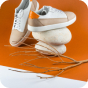
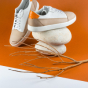
changed pictures + functions to slider component

diff --git a/src/components/main/Slider.jsx b/src/components/main/Slider.jsx
@@ -2,22 +2,46 @@ import { useState } from "react"
 
 const Slider = () => {
 
-  const slides = [
-    {public: '/images/Shoes2.jpg'},
-    {public: '/images/Shoes3.jpg'},
-    {public: '/images/Shoes4.jpg'},
-    {public: '/images/Shoes5.jpg'},
+  const [activeSlideIndex, setActiveSlideIndex] = useState(0)
+  const [activeLargeSlideIndex, setActiveLargeSlideIndex] = useState(0)
+
+  const handleSlideClick = (index) => {
+    setActiveSlideIndex(index)
+    setActiveLargeSlideIndex(index)
+  }
+
+  const smallSlides = [
+    {src: '/images/Shoes1.jpg'},
+    {src: '/images/Shoes2.jpg'},
+    {src: '/images/Shoes3.jpg'},
+    {src: '/images/Shoes4.jpg'}, 
+  ]
+
+  const largeSlides = [
+    {src: '/images/Shoes1large.jpg'},
+    {src: '/images/Shoes2large.jpg'},
+    {src: '/images/Shoes3large.jpg'},
+    {src: '/images/Shoes4large.jpg'}, 
   ]
 
   return (
     <div>
         <div className="flex flex-col items-center mt-24">
-            <img src="/images/Shoes1.jpg" alt="Picture of shoes" />
+            <img
+              src={largeSlides[activeLargeSlideIndex].src}
+              className="rounded-[15px]"
+              alt="Picture of shoes" />
             <div className="flex">
-                <img className="m-4 rounded-[15px] hover:cursor-pointer hover:opacity-50" src="/images/Shoes5.jpg" alt="Picture of shoes" onClick={() => console.log("clicked")}/>
-                <img className="m-4 rounded-[15px] hover:cursor-pointer hover:opacity-50" src="/images/Shoes2.jpg" alt="Picture of shoes" onClick={() => console.log("clicked")}/>
-                <img className="m-4 rounded-[15px] hover:cursor-pointer hover:opacity-50" src="/images/Shoes3.jpg" alt="Picture of shoes" onClick={() => console.log("clicked")}/>
-                <img className="m-4 rounded-[15px] hover:cursor-pointer hover:opacity-50" src="/images/Shoes4.jpg" alt="Picture of shoes" onClick={() => console.log("clicked")}/>
+                {smallSlides.map((slide, index) => (
+                  <img
+                    key={index}
+                    className={`m-4 rounded-[15px] hover:cursor-pointer hover:opacity-50 ${
+                      activeSlideIndex === index && "opacity-50 border-2 border-orange"}`}
+                    src={slide.src}
+                    alt="Picture of shoes"
+                    onClick={() => handleSlideClick(index)}
+                  />
+                ))}
             </div>
         </div>
     </div>

diff --git a/src/components/header/Cart.jsx b/src/components/header/Cart.jsx
@@ -1,8 +1,12 @@
 
 
 const Cart = () => {
+
+
+
   return (
-    <div className="mr-8 p-6 cursor-pointer">
+    <div className="mr-8 cursor-pointer flex relative z-0">
+        <div className="absolute z-10 top-0 right-0 flex justify-center items-center px-2 rounded-xl text-xs bg-orange text-white">3</div>
         <svg width="22" height="20" viewBox="0 0 22 20" fill="none" xmlns="http://www.w3.org/2000/svg">
             <path fillRule="evenodd" clipRule="evenodd" d="M3.86313 3.64139H20.9246C21.5077 3.64139 21.9352 4.19014 21.7941 4.75489L19.9732 12.0381C19.8781 12.4181 19.5473 12.6924 19.1563 12.7153L4.83452 13.557C5.09057 14.1554 5.68378 14.5661 6.36452 14.5661H16.3727C17.8709 14.5661 19.0897 15.7849 19.0897 17.2831C19.0897 18.7812 17.8709 20 16.3727 20C14.4955 20 13.1758 18.1275 13.818 16.3584H8.91319C9.55625 18.1298 8.23365 20 6.35846 20C4.09916 20 2.83011 17.3851 4.21903 15.6114C3.44867 15.0012 3.00149 14.1031 2.92835 13.2755C1.79349 0.631508 1.84298 1.18296 1.9492 2.36648L1.94921 2.36663L1.94928 2.36744C2.02069 3.1631 2.11759 4.24273 1.89764 1.79232H0.896159C0.401223 1.79232 0 1.39109 0 0.896159C0 0.401223 0.401223 0 0.896159 0H2.71694C3.18081 0 3.56803 0.354025 3.60951 0.816059L3.86313 3.64139ZM5.43388 17.2831C5.43388 17.7929 5.84867 18.2077 6.35846 18.2077C6.86829 18.2077 7.28308 17.7929 7.28308 17.2831C7.28308 16.7732 6.86829 16.3584 6.35846 16.3584C5.84867 16.3584 5.43388 16.7732 5.43388 17.2831ZM16.3727 18.2077C15.8629 18.2077 15.4481 17.7929 15.4481 17.2831C15.4481 16.7732 15.8629 16.3584 16.3727 16.3584C16.8825 16.3584 17.2973 16.7732 17.2973 17.2831C17.2973 17.7929 16.8825 18.2077 16.3727 18.2077ZM4.59328 11.7758L18.394 10.9648L19.7769 5.43367H4.02401L4.59328 11.7758Z" fill="#69707D"/>
         </svg>
